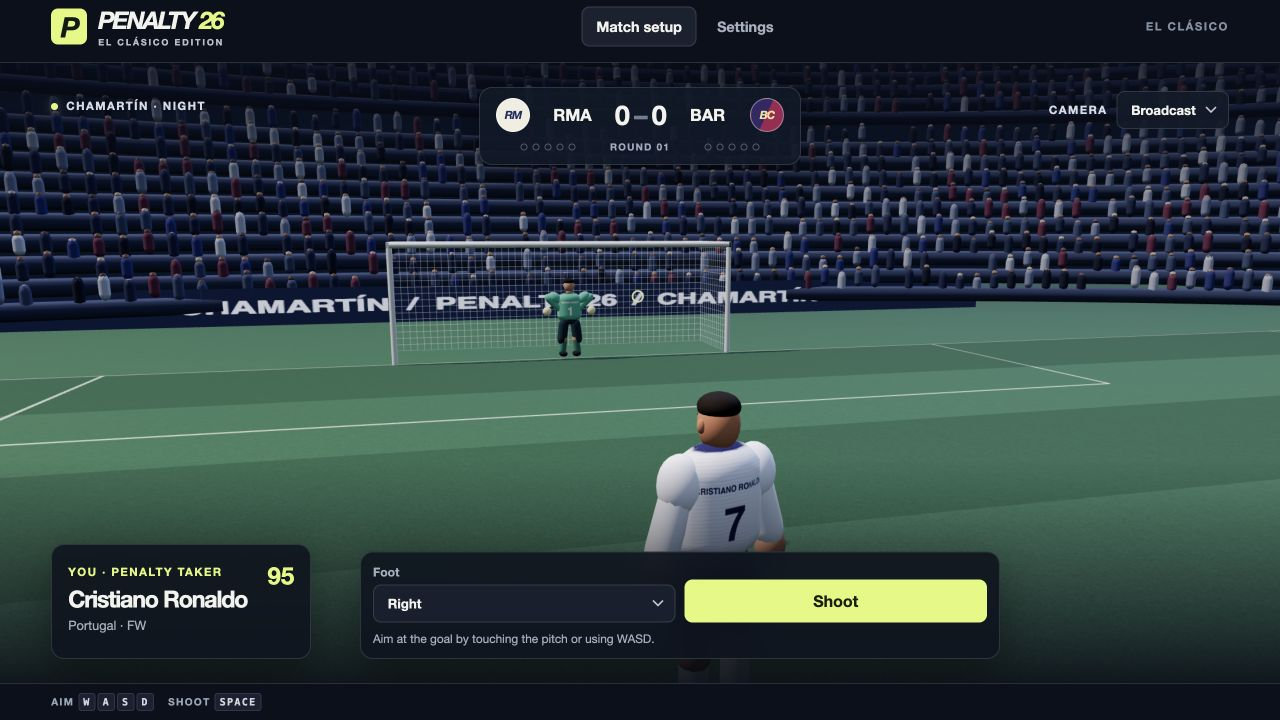
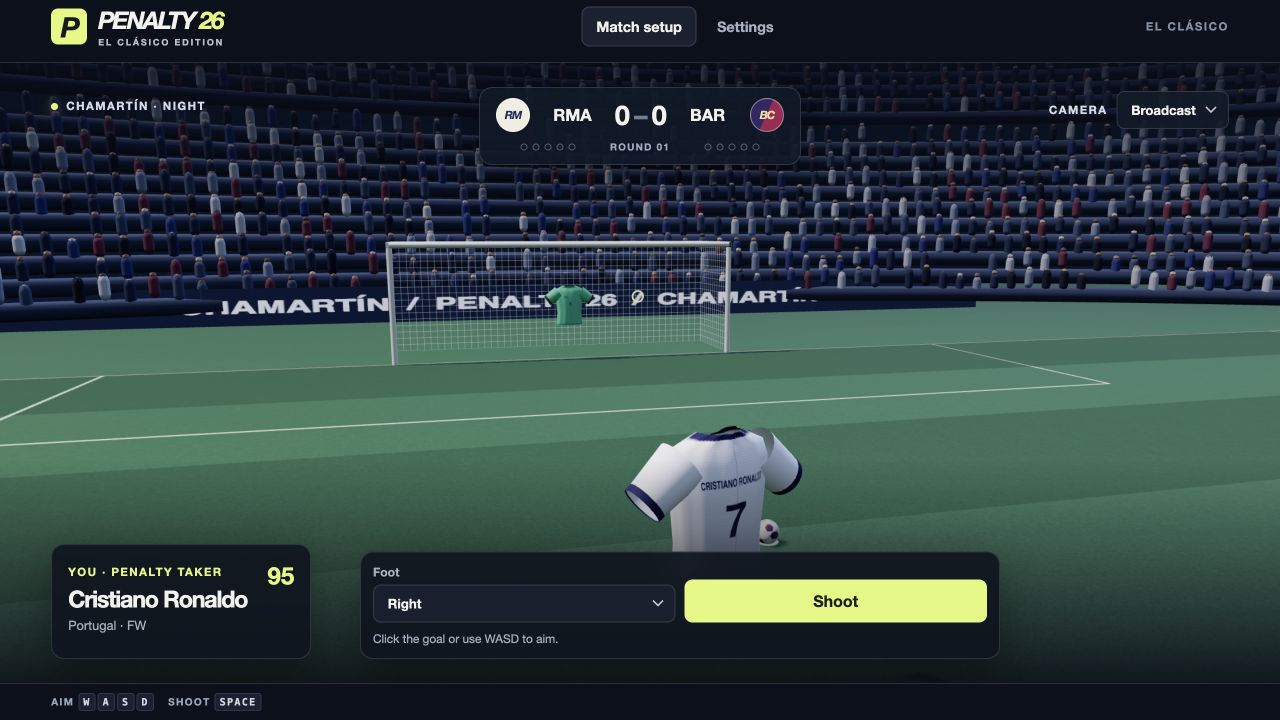
Replace player bodies with animated club jerseys

Changed region(s): [[0.4688, 0.55, 0.625, 0.7639], [0.2812, 0.8556, 0.5, 0.9167], [0.4062, 0.3972, 0.4688, 0.4889]]

diff --git a/src/animations.js b/src/animations.js
@@ -1,134 +1,129 @@
 import * as T from 'three';
 
-const sphere=new T.SphereGeometry(1,16,12);
-const capsule=new T.CapsuleGeometry(.5,1,5,10);
-const segment=(material,width,height,depth)=>{
-  const mesh=new T.Mesh(capsule,material);
-  mesh.scale.set(width,height/2,depth);
-  mesh.castShadow=true;
-  return mesh;
+const shirtNumbers={
+  'Cristiano Ronaldo':7,'Lionel Messi':10,'Lamine Yamal':19,'Kylian Mbappé':10,
+  'Zinedine Zidane':5,'Ronaldo Nazário':9,'Jude Bellingham':5,'Ronaldinho':10,
+  'Vinícius Júnior':7,'Thibaut Courtois':1,'Iker Casillas':1
 };
-const oval=(material,x,y,z)=>{
-  const mesh=new T.Mesh(sphere,material);
-  mesh.scale.set(x,y,z);
-  mesh.castShadow=true;
-  return mesh;
-};
-const mat=color=>new T.MeshStandardMaterial({color,roughness:.84});
-function kitTexture(player, club, keeper, alternate) {
-  const canvas=document.createElement('canvas');canvas.width=512;canvas.height=256;
+
+function fabric(player,club,keeper,alternate){
+  const base=keeper?(alternate?0xffb84c:0x49c393):alternate?0xb13758:club.color;
+  const trim=keeper?0x184537:club.trim;
+  const canvas=document.createElement('canvas');
+  canvas.width=1024;canvas.height=512;
   const c=canvas.getContext('2d');
-  const base=new T.Color(keeper?(alternate?0xf8ad39:0x52b994):alternate?0xb13758:club.color);
-  const trim=new T.Color(keeper?0x184537:club.trim);
-  c.fillStyle=base.getStyle();c.fillRect(0,0,512,256);
+  c.fillStyle=new T.Color(base).getStyle();
+  c.fillRect(0,0,1024,512);
   if(club.badge==='BC'&&!keeper&&!alternate){
-    c.fillStyle=trim.getStyle();
-    for(let x=24;x<512;x+=95)c.fillRect(x,0,35,256);
+    c.fillStyle=new T.Color(trim).getStyle();
+    for(let x=0;x<1024;x+=128)c.fillRect(x,0,52,512);
   }
-  for(let y=0;y<256;y+=3){
-    c.fillStyle=y%6?'#ffffff13':'#00000014';c.fillRect(0,y,512,1);
+  for(let y=0;y<512;y+=4){
+    c.fillStyle=y%8?'#ffffff15':'#00000012';
+    c.fillRect(0,y,1024,1);
   }
-  c.fillStyle=trim.getStyle();c.fillRect(0,0,512,33);c.fillRect(0,224,512,7);
-  const ink=keeper?'#fff9d4':club.badge==='RM'&&!alternate?'#232d56':'#f9e4a3';
-  const number={'Cristiano Ronaldo':7,'Lionel Messi':10,'Lamine Yamal':19,'Kylian Mbappé':10,'Zinedine Zidane':5,'Ronaldo Nazário':9,'Jude Bellingham':5,'Ronaldinho':10,'Vinícius Júnior':7}[player.name]??(keeper?1:2+player.id%23);
-  c.fillStyle=ink;c.textAlign='center';c.font='900 76px sans-serif';c.fillText(String(number),128,177);
-  c.font='800 14px sans-serif';
-  c.fillText(player.name.toUpperCase(),128,98,150);
-  c.font='900 11px sans-serif';c.fillText(club.badge,365,116);
-  const texture=new T.CanvasTexture(canvas);texture.colorSpace=T.SRGBColorSpace;return texture;
+  for(let x=0;x<1024;x+=257){
+    c.fillStyle='#12152229';c.fillRect(x,36,3,460);
+  }
+  c.fillStyle=new T.Color(trim).getStyle();
+  c.fillRect(0,0,1024,16);
+  c.fillRect(0,500,1024,6);
+  const number=shirtNumbers[player.name]??(keeper?1:2+player.id%23);
+  const ink=keeper&&!alternate?'#163c30':keeper?'#292139':club.badge==='RM'&&!alternate?'#232d56':'#f9e4a3';
+  c.fillStyle=ink;c.textAlign='center';
+  c.font='800 34px sans-serif';
+  c.fillText(player.name.toUpperCase(),256,158,235);
+  c.font='900 154px sans-serif';
+  c.fillText(String(number),256,321);
+  c.font='900 31px sans-serif';
+  c.fillText(club.badge,714,157);
+  c.font='900 59px sans-serif';
+  c.fillText(String(number),768,258);
+  const texture=new T.CanvasTexture(canvas);
+  texture.colorSpace=T.SRGBColorSpace;
+  return {texture,base,trim};
 }
 
-export function athlete(player,club,keeper=false,alternate=false) {
-  const group=new T.Group();
-  const texture=kitTexture(player,club,keeper,alternate);
-  const shirt=new T.MeshStandardMaterial({map:texture,roughness:.82});
-  const socks=mat(keeper?0x397e66:alternate?0x8e3050:club.color);
-  const sleeveMaterial=mat(keeper?0x52b994:alternate?0xb13758:club.color);
-  const shorts=mat(keeper?0x183b42:alternate?0x2a182a:club.trim);
-  const skin=mat([0xbb7959,0xe1ad86,0x765040,0x9a6048,0xc58f70][player.id%5]);
-  const hair=mat([0x201713,0x423029,0x151618,0x684934][player.id%4]);
-  const glove=mat(0xf5e6a6);
-  const boots=mat(0x171b26);
-  const build=.92+player.weight/1000;
-  const torso=segment(shirt,.54*build,.66,.32);
-  const head=oval(skin,.114,.146,.113);
-  const hairMesh=oval(hair,.115,.075,.116);
-  const hips=segment(shorts,.38,.28,.26);
-  const neck=oval(skin,.071,.095,.071);
-  neck.position.set(0,-.005,0);
-  // Facial features use world-size offsets on an unscaled parent.
-  const face=new T.Group();
-  const eyeWhite=mat(0xe4d6c9), iris=mat(0x292229);
-  for(const sign of [-1,1]){
-    const eye=oval(eyeWhite,.021,.011,.006);eye.position.set(sign*.044,.019,-.098);
-    const pupil=oval(iris,.009,.009,.005);pupil.position.set(sign*.044,.019,-.104);
-    const brow=oval(hair,.024,.006,.007);brow.position.set(sign*.044,.038,-.096);
-    face.add(eye,pupil,brow);
-    const ear=oval(skin,.025,.039,.025);ear.position.set(sign*.108,-.002,0);face.add(ear);
+function torsoGeometry(){
+  // Elliptical cross sections taper from the shoulders to the neck opening.
+  const rings=[
+    [-.35,.232,.119],[-.31,.236,.126],[-.13,.218,.133],
+    [.07,.238,.143],[.24,.265,.131],[.31,.240,.103],[.37,.106,.086]
+  ];
+  const count=48, positions=[], uvs=[], indices=[];
+  for(const [row,[y,width,depth]] of rings.entries()){
+    for(let i=0;i<=count;i++){
+      const u=i/count,angle=(u-.25)*Math.PI*2;
+      const fold=.006*Math.cos(angle*11+row*.46)*Math.sin(row*.71);
+      const neckline=row===rings.length-1?.045*Math.max(0,-Math.cos(angle))**3:0;
+      positions.push(Math.sin(angle)*(width+fold),y-neckline,Math.cos(angle)*(depth+fold));
+      uvs.push(u,(y+.35)/.72);
+      if(row&&i){
+        const d=row*(count+1)+i,c=d-1,b=d-count-1,a=b-1;
+        indices.push(a,b,d,a,d,c);
+      }
+    }
   }
-  const nose=oval(skin,.022,.033,.026);nose.position.set(0,-.013,-.107);
-  const mouth=oval(iris,.034,.004,.007);mouth.position.set(0,-.055,-.099);
-  face.add(nose,mouth);
-  const collar=oval(shorts,.10,.035,.093);
+  const geometry=new T.BufferGeometry();
+  geometry.setAttribute('position',new T.Float32BufferAttribute(positions,3));
+  geometry.setAttribute('uv',new T.Float32BufferAttribute(uvs,2));
+  geometry.setIndex(indices);geometry.computeVertexNormals();
+  return geometry;
+}
+
+const torsoShape=torsoGeometry();
+const sleeveShape=new T.CylinderGeometry(.096,.122,.252,20,3,true);
+const cuffShape=new T.CylinderGeometry(.098,.10,.034,20,1,true);
+
+export function jersey(player,club,keeper=false,alternate=false){
+  const group=new T.Group();
+  const {texture,base,trim}=fabric(player,club,keeper,alternate);
+  const shirt=new T.MeshStandardMaterial({map:texture,roughness:.82,side:T.DoubleSide});
+  const sleeveMaterial=new T.MeshStandardMaterial({color:base,roughness:.86,side:T.DoubleSide});
+  const cuffMaterial=new T.MeshStandardMaterial({color:trim,roughness:.80,side:T.DoubleSide});
+  const torso=new T.Mesh(torsoShape,shirt);
+  torso.castShadow=true;
+  group.add(torso);
   const sleeves=[-1,1].map(sign=>{
-    const sleeve=oval(sleeveMaterial,.125,.16,.115);sleeve.position.set(sign*.237,1.416,0);return sleeve;
+    const sleeve=new T.Group();
+    sleeve.position.set(sign*.296,.17,0);
+    const cloth=new T.Mesh(sleeveShape,sleeveMaterial);
+    const cuff=new T.Mesh(cuffShape,cuffMaterial);
+    cloth.castShadow=true;
+    cuff.position.y=.115;
+    sleeve.add(cloth,cuff);torso.add(sleeve);
+    return sleeve;
   });
-  const arms=[0,1].map(()=>segment(sleeveMaterial,.18,.55,.18));
-  const hands=[0,1].map(()=>oval(keeper?glove:skin,.095,.10,.078));
-  const legs=[0,1].map(()=>segment(shorts,.22,.58,.22));
-  const calves=[0,1].map(()=>segment(socks,.16,.48,.16));
-  const knees=[0,1].map(()=>oval(skin,.098,.126,.101));
-  const feet=[0,1].map(()=>oval(boots,.093,.068,.154));
-  group.add(torso,head,face,neck,collar,hairMesh,hips,...sleeves,...arms,...hands,...legs,...calves,...knees,...feet);
-  const place=(mesh,point)=>{mesh.position.set(point.x,point.y,point.z);mesh.rotation.z=point.angle;};
-  const poseKeeper=parts=>{
-    place(torso,parts[0]);
-    place(hips,{...parts[0],y:parts[0].y-.24});
-    place(head,parts[5]);place(face,parts[5]);
-    place(neck,{...parts[5],y:parts[5].y-.14});place(collar,{...parts[5],y:parts[5].y-.22});
-    place(hairMesh,{...parts[5],y:parts[5].y+.095});
-    for(let i=0;i<2;i++){
-      place(arms[i],parts[i+1]);
-      place(sleeves[i],{...parts[i+1],y:parts[i+1].y+.11});
-      place(hands[i],parts[i+3]);
-      place(legs[i],parts[i+6]);
-      place(calves[i],{...parts[i+6],y:Math.max(.18,parts[i+6].y-.29)});
-      place(feet[i],{...parts[i+6],y:Math.max(.08,parts[i+6].y-.49)});
-      place(knees[i],{...parts[i+6],y:Math.max(.26,parts[i+6].y-.16)});
-    }
-  };
-  const poseShooter=(t,celebrate=0)=>{
-    const side=player.foot==='Left'?1:-1;
-    const run=Math.min(1,Math.max(0,t));
-    const offset=player.runup==='Arc'?1.65:1.05;
-    group.position.set(side*(.30+(1-run)*offset),0,11-.04+(1-run)*2.42);
-    group.rotation.y=-side*(.12+.18*(1-run));
-    group.scale.setScalar(player.height/1.82);
+  group.scale.setScalar((player.height/1.82)*1.16);
+
+  function swing(left,right){
+    sleeves[0].rotation.z=left;
+    sleeves[1].rotation.z=right;
+  }
+
+  function poseKeeper(parts){
+    const {x,y,z,angle}=parts[0];
+    group.position.set(x,y+.04,z);
+    group.rotation.set(0,Math.PI,-angle);
+    const extension=Math.min(.48,Math.abs(angle)*.37);
+    swing(2.16-extension,-2.16+extension);
+  }
+
+  function poseShooter(t,celebrate=0,foot=player.foot){
+    const side=foot==='Left'?1:-1;
+    const run=T.MathUtils.clamp(t,0,1);
     const stride=Math.sin(run*Math.PI*(player.runup==='Stutter'?9:6))*Math.sin(run*Math.PI);
-    const follow=Math.sin(Math.min(1,Math.max(0,t-.83)/.37)*Math.PI);
-    const bounce=celebrate===1?Math.abs(Math.sin(t*9))*.13:Math.abs(stride)*.065;
-    torso.position.set(0,1.28+bounce,0);
-    torso.rotation.z=side*(.08*stride+.15*follow);
-    hips.position.set(0,.92+bounce,0);
-    head.position.set(0,1.70+bounce,0);face.position.copy(head.position);
-    neck.position.set(0,1.553+bounce,0);collar.position.set(0,1.51+bounce,0);
-    hairMesh.position.set(0,1.79+bounce,0);
-    for(let i=0;i<2;i++){
-      const sign=i===0?-1:1;
-      const strike=(side===sign?follow:0);
-      legs[i].position.set(sign*.14,.69+bounce,stride*sign*.15-strike*.19);
-      legs[i].rotation.x=stride*sign*.67-strike*1.14;
-      calves[i].position.set(sign*.14,.32+bounce+strike*.2,stride*sign*.27-strike*.43);
-      calves[i].rotation.x=stride*sign*.45-strike*1.32;
-      knees[i].position.lerpVectors(legs[i].position,calves[i].position,.58);
-      sleeves[i].position.y=1.411+bounce;
-      feet[i].position.set(sign*.14,.084+bounce+strike*.37,stride*sign*.34-strike*.60);
-      const gesture=celebrate===1?(player.celebration==='Arms wide'?1:player.celebration==='Salute'?(i===0?1.75:.15):1.25+Math.sin(t*13)*.53):0;
-      arms[i].position.set(sign*(.30+gesture*.09),1.22+bounce+gesture*.09,stride*sign*.14);
-      arms[i].rotation.z=sign*(.31+gesture);
-      arms[i].rotation.x=stride*sign*.45;
-      hands[i].position.set(sign*(.37+gesture*.21),.96+bounce+gesture*.30,stride*sign*.26);
-    }
-  };
-  return {group,poseKeeper,poseShooter,dispose(){group.removeFromParent();texture.dispose();[shirt,sleeveMaterial,socks,shorts,skin,hair,glove,boots,eyeWhite,iris].forEach(m=>m.dispose());}};
+    const follow=Math.sin(T.MathUtils.clamp((t-.83)/.37,0,1)*Math.PI);
+    const arc=player.runup==='Arc'?1.65:1.05;
+    const bounce=celebrate?Math.abs(Math.sin(t*8))*.14:.06*Math.abs(stride);
+    const cheer=celebrate?.42+.20*Math.sin(t*8):0;
+    const salute=celebrate&&player.celebration==='Salute'?.59:0;
+    group.position.set(side*(.3+(1-run)*arc),1.27+bounce,10.96+(1-run)*2.42);
+    group.rotation.set(-.14*follow,-side*(.12+.18*(1-run)),side*(.09*stride+.20*follow));
+    swing(2.23+.16*stride-cheer-salute,-2.23+.16*stride+cheer);
+  }
+
+  return {group,poseKeeper,poseShooter,dispose(){
+    group.removeFromParent();texture.dispose();shirt.dispose();sleeveMaterial.dispose();cuffMaterial.dispose();
+  }};
 }

diff --git a/src/render.js b/src/render.js
@@ -1,6 +1,6 @@
 import * as T from 'three';
 import {HALF,BAR,R,SPOT} from './physics.js';
-import {athlete} from './animations.js';
+import {jersey} from './animations.js';
 
 const rand=(i)=>{const v=Math.sin(i*127.1+311.7)*43758.5453;return v-Math.floor(v);};
 const lineColor=0xd5e3cb;
@@ -201,8 +201,8 @@ export class Stadium {
   }
   lineup(shooter,club,keeper,opponent,alternate){
     this.shooter?.dispose();this.keeper?.dispose();
-    this.shooter=shooter?athlete(shooter,club,false,alternate):null;
-    this.keeper=athlete(keeper,opponent,true,alternate);
+    this.shooter=shooter?jersey(shooter,club,false,alternate):null;
+    this.keeper=jersey(keeper,opponent,true,alternate);
     if(this.shooter)this.scene.add(this.shooter.group);
     this.scene.add(this.keeper.group);
   }
@@ -228,7 +228,7 @@ export class Stadium {
     this.ball.scale.set(1+compression*(.45-1.45*Math.abs(localNormal.x)),1+compression*(.45-1.45*Math.abs(localNormal.y)),1+compression*(.45-1.45*Math.abs(localNormal.z)));
     this.marker.visible=Boolean(visual.aim);
     if(visual.aim)this.marker.position.set(visual.aim.x,visual.aim.y,.21);
-    this.keeper?.poseKeeper(pose);this.shooter?.poseShooter(run,celebrate);
+    this.keeper?.poseKeeper(pose);this.shooter?.poseShooter(run,celebrate,visual.foot);
     const attr=this.net.geometry.attributes.position;
     const netHit=visual.net;
     if(netHit || this.netActive){

diff --git a/src/game.js b/src/game.js
@@ -177,7 +177,7 @@ export class Game {
       {p:this.sim?.ball.translation()??initialBall,q:this.sim?.ball.rotation(),pose:this.pose,
         run:this.phase==='result'?1.1+this.clock:this.active?1+Math.min(.25,this.sim.elapsed):this.run,
         celebrate:this.phase==='result'&&this.outcome==='GOAL'?1:0,elapsed:this.sim?.elapsed||0,impact:this.sim?.collisions.at(-1),net:this.netImpact};
-    const visual={aim:this.canAim?this.input:null,net:frame.net,
+    const visual={foot:this.input.foot,aim:this.canAim?this.input:null,net:frame.net,
       crowd:this.phase==='result'?this.clock+.01:0,
       confetti:this.phase==='result'&&this.outcome==='GOAL'&&this.clock<7?this.clock+.01:0};
     this.view.draw(frame,replay?'Replay':this.camera,visual);

diff --git a/README.md b/README.md
@@ -66,7 +66,7 @@ The drag and Magnus coefficients are simplified. Knuckleball wake forces are bou
 | `rules.js` | Shootout scoring and early victory |
 | `keeper.js` | Human and AI keeper commands, reaction delays, procedural pose |
 | `render.js` | Three.js stadiums, cameras, instanced crowd, net, and aim marker |
-| `animations.js` | Original procedural footballers and kit textures |
+| `animations.js` | Animated 3D jerseys and original kit textures |
 | `players.js` | Club eligibility, roster traits, and custom ratings |
 | `audio.js` | Web Audio ambience and effects, synthetic crowds, optional commentary |
 | `tilt.js` | Screen-relative phone tilt aiming |
@@ -78,7 +78,7 @@ For future online play, authoritative services can own the fixed-step kick simul
 
 The database is a curated historical selection. Generation follows a representative in-game season. Attributes, appearance, kit variants, and shirt numbers are gameplay representations. The club histories corroborate many entries, including dual-club appearances, without providing a record-by-record audit of every in-game field. [Real Madrid football legends](https://www.realmadrid.com/en-US/the-club/history/football-legends) · [Barcelona legendary players](https://www.fcbarcelona.com/en/club/history/legendary-players) · [Barcelona historical player records](https://www.fcbarcelona.com/en/football/first-team/news/1938928/xavi-maradona-messi-and-ronaldo-in-the-ballon-dor-dream-team)
 
-All game geometry, textures and audio are procedurally authored. The players are stylized reconstructions using a shared rig and custom kit textures. The two stadiums are inspired by Madrid and Barcelona venues. This is an independent fan game. The MIT license covers the project's original code and assets. Club and player names belong to their respective rights holders.
+All game geometry, textures and audio are procedurally authored. Players appear on the pitch as animated 3D club jerseys with their names and numbers. The two stadiums are inspired by Madrid and Barcelona venues. This is an independent fan game. The MIT license covers the project's original code and assets. Club and player names belong to their respective rights holders.
 
 Run `npm test` for trajectory, spin, keeper and frame collision, ball crossing, player eligibility, mirror-match, and shootout regression tests.
 
